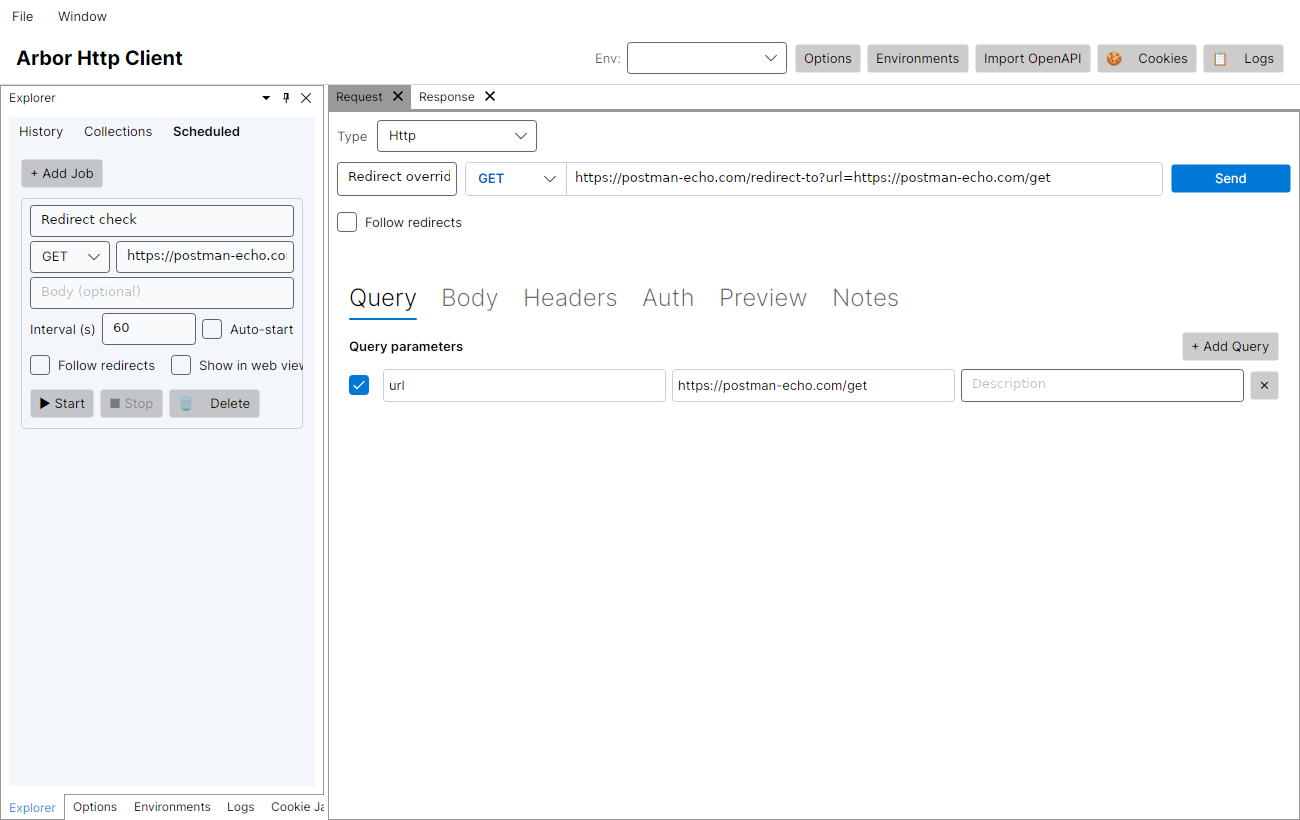
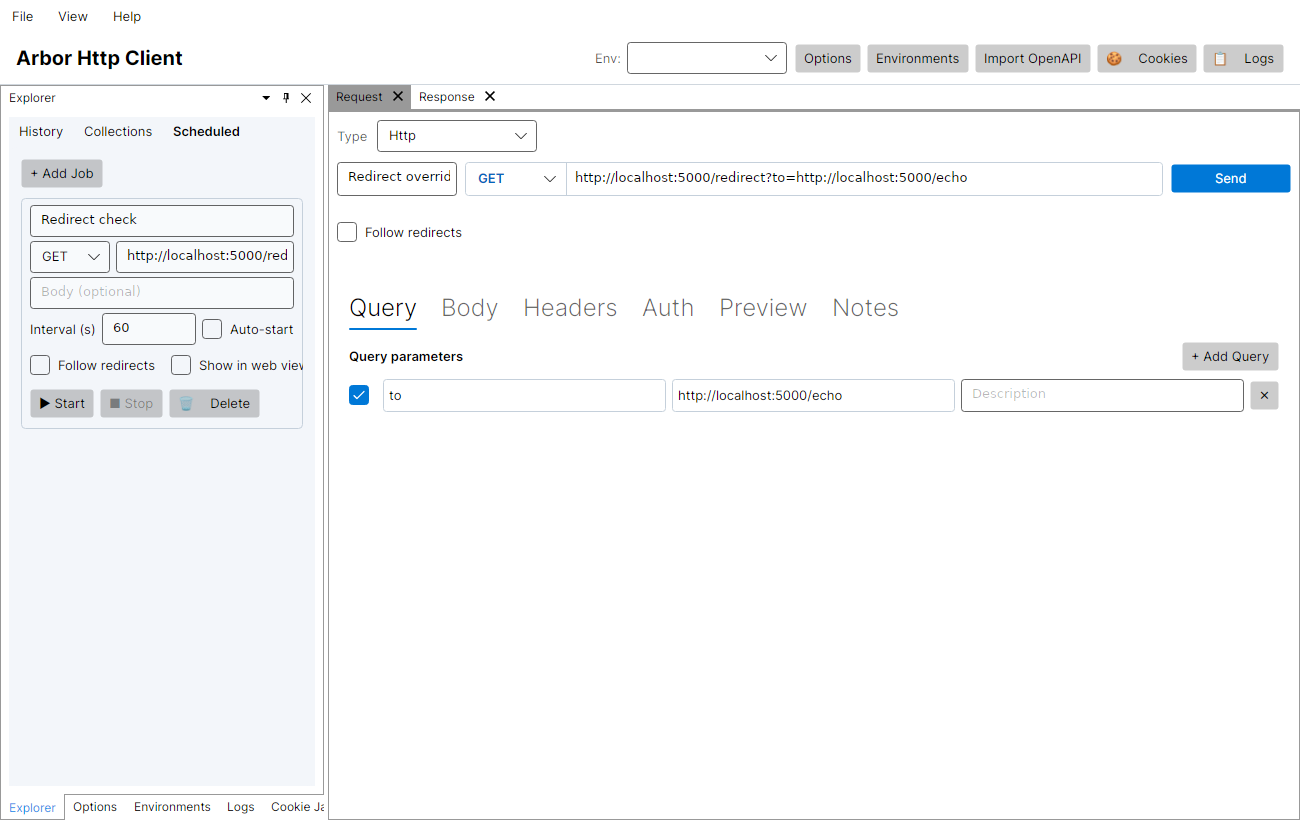
feat: add full menu bar coverage for all features and panels
Add View menu with History, Collections, Scheduled Jobs, Options,
Environments, Cookies, Logs and Layout items. Add Import OpenAPI to
File menu. Replace Window menu with the expanded View menu so every
panel is always reachable from the menu bar.

Regenerate E2E screenshots to reflect the updated menu."

Agent-Logs-Url: https://github.com/niklaslundberg/Arbor.HttpClient/sessions/ec419176-c497-4634-91b1-b6bf45926f8e

diff --git a/docs/ux-ideas.md b/docs/ux-ideas.md
@@ -474,4 +474,17 @@ Each idea includes a description of what it means in practice, notes on how it c
 
 ---
 
+### Full Menu Bar Coverage ✅ Implemented
+> Implemented in PR #93 (commit `pending`) — `src/Arbor.HttpClient.Desktop/Features/Main/MainWindow.axaml`
+
+**What it means:** Every feature panel and action in the application is reachable from the top menu bar. There is no case where a panel is closed and cannot be re-opened.
+
+**What shipped:**
+- `File` menu: Import OpenAPI… (`ImportCollectionCommand`) and Exit
+- `View` menu: History, Collections, Scheduled Jobs (left-panel tabs), Options, Environments, Cookies, Logs, Layout (left tool-dock panels)
+- `Help` menu: About
+- The old `Window > Layout` item replaced by `View > Layout` together with all other panel items
+
+---
+
 *Last updated: April 2026. Suggestions sourced from comparative review of Hoppscotch, Insomnia, Postman, Bruno, and browser DevTools.*
